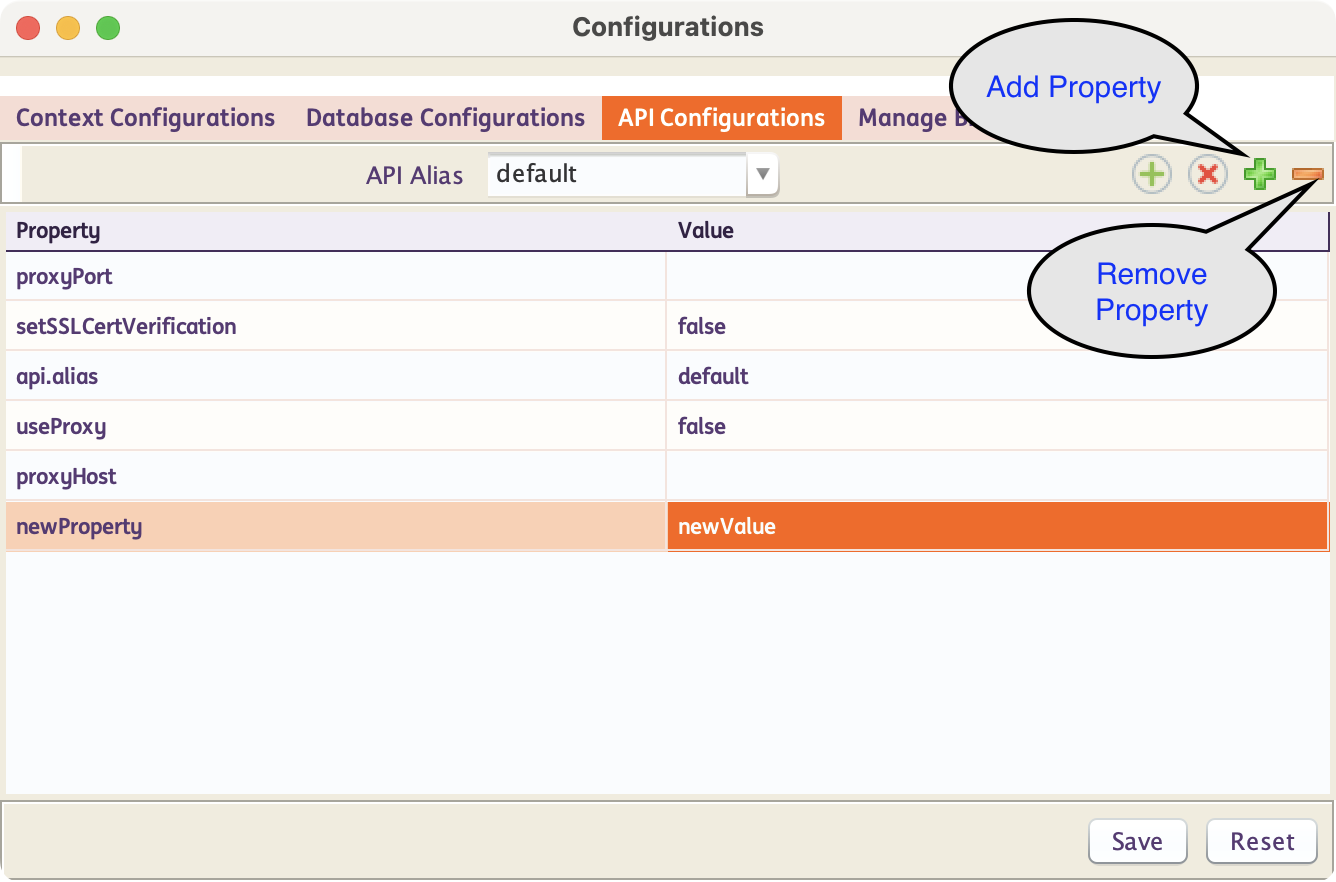
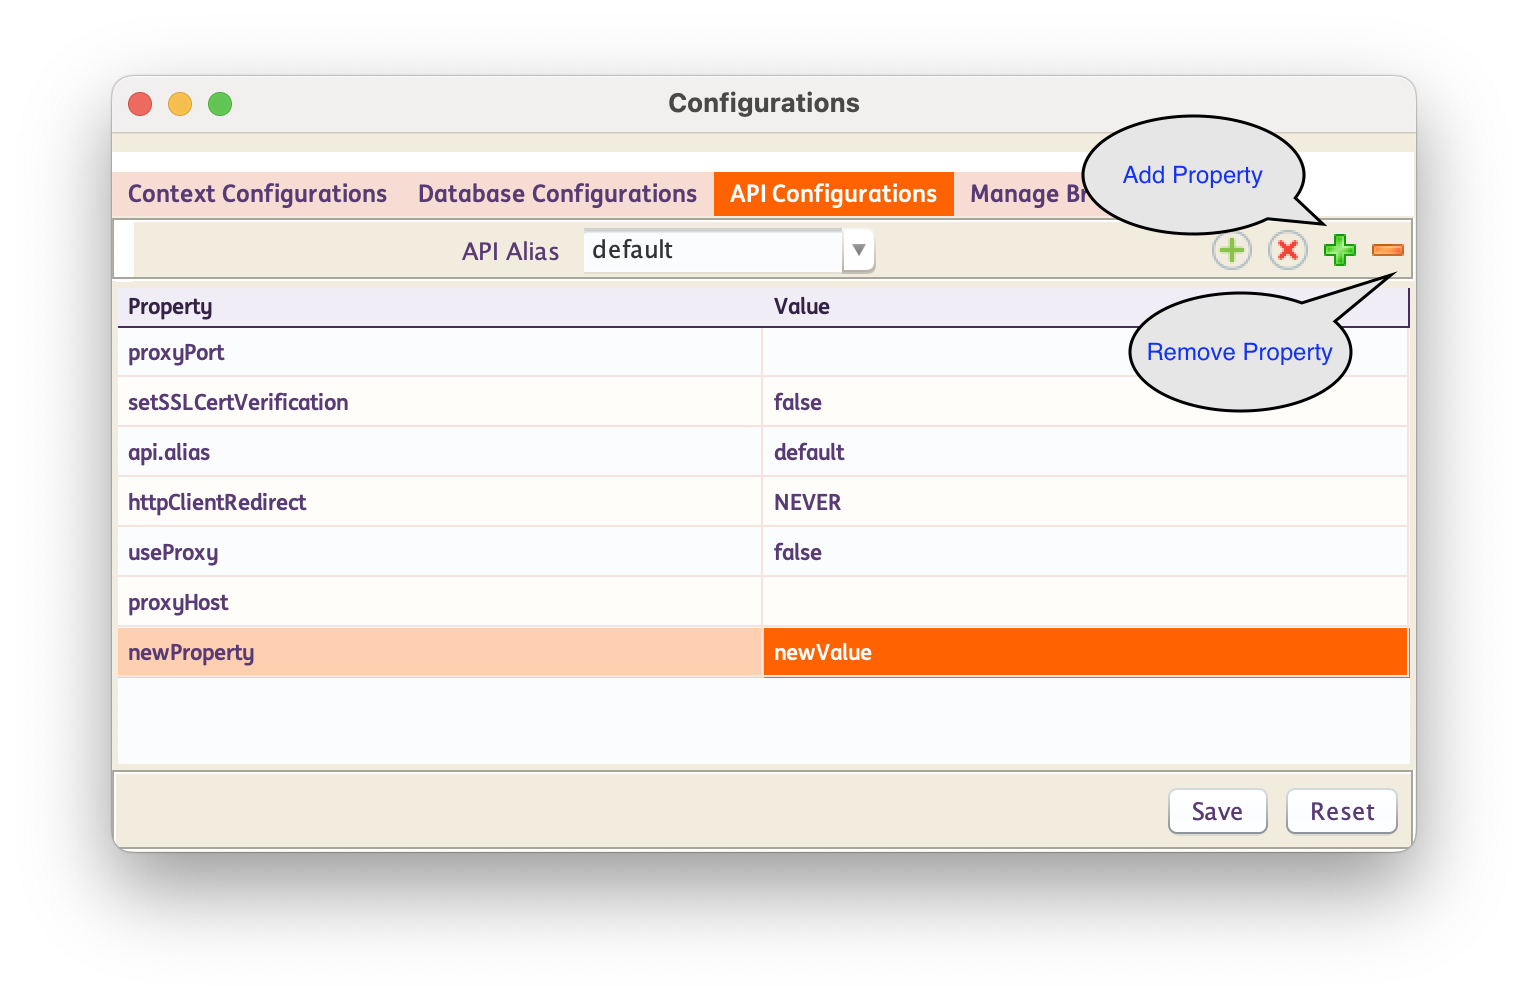
Update API configurations with httpClientRedirect property

diff --git a/docs/api.md b/docs/api.md
@@ -22,6 +22,21 @@
 
         ![apiDefault](../img/configurations/api_configurations_default.png "apiDefault")
 
+??? note "API Configurations"
+
+    ### API Configurations
+
+    The following properties can be set while creating an API Configuration:
+
+    |<div style="width:250px">Property</div>     |Description|
+    |-------------|---------------|
+    |`api.alias`|The alias name for this API configuration. Used to reference the config in a test using #aliasName.|
+    |`httpClientRedirect`|Specifies how HTTP redirects are handled by the internal HTTP client. Allowed values are NEVER, NORMAL, ALWAYS. Default value is NEVER.|
+    |`useProxy`|Controls whether API requests should be routed through a proxy server.|
+    |`proxyHost`|Hostname (or IP) of the proxy server if useProxy = true.|
+    |`proxyPort`|Port number used when a proxy server is enabled. Only applies if useProxy = true.|
+    |`sslCertificateVerification`|Enables or disables SSL certificate verification.|
+
 -----------------------------------        
 
 ## Create New API Configuration
